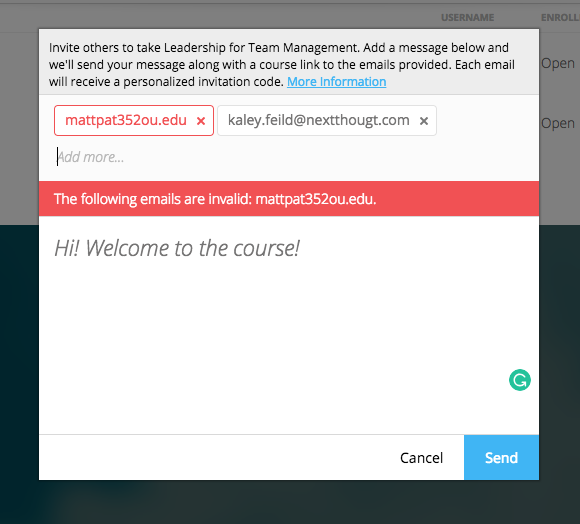
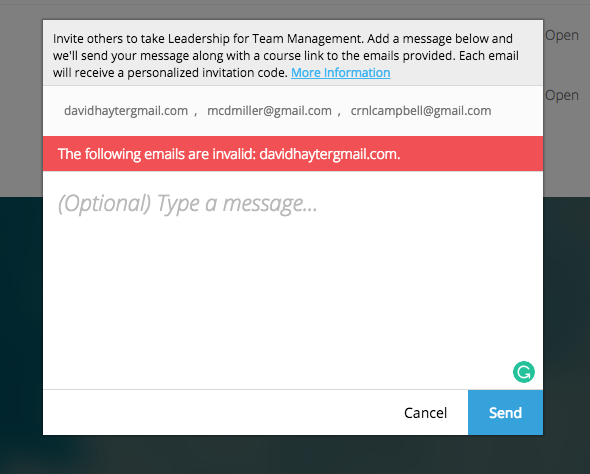
Checkpoint

Changed region(s): [[0.0, 0.0295, 1.0, 0.9156]]

diff --git a/releases/2018releases.rst b/releases/2018releases.rst
@@ -5,7 +5,7 @@
 November 15th, 2018
 --------------------
 
-Bad Email Alert in Course Invite
+Invalid Email Alert in Course Invite
 ^^^^^^^^^^^^^^^^^^^^^^^^^^^^^^^^^^
 
 The platform will now specify which email address is erroneous by highlighting the email in red.
@@ -19,15 +19,9 @@ There is now a short description in the “Invite” window when inviting users 
 
 .. image:: images/CourseInviteMessage.png
 
-Preview Label for Upublished Books
-^^^^^^^^^^^^^^^^^^^^^^^^^^^^^^^^^^^^
-
-The “Preview” label is now applied to unpublished books in the platform.
 
 Award Custom Credit to Multiple Users
 ^^^^^^^^^^^^^^^^^^^^^^^^^^^^^^^^^^^^^^
-
-Award Custom Credit to Multiple Users [Bulk Transcripts] NTI-6863
 
 NextThought can now award custom credit to multiple users with the new bulk transcripts feature. This allows for many users to receive credit at one time. Admins can upload their csv files by following these steps:
 
